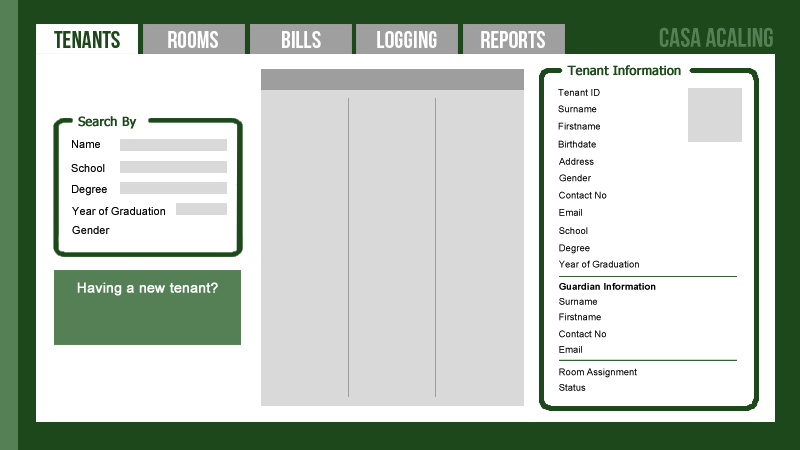
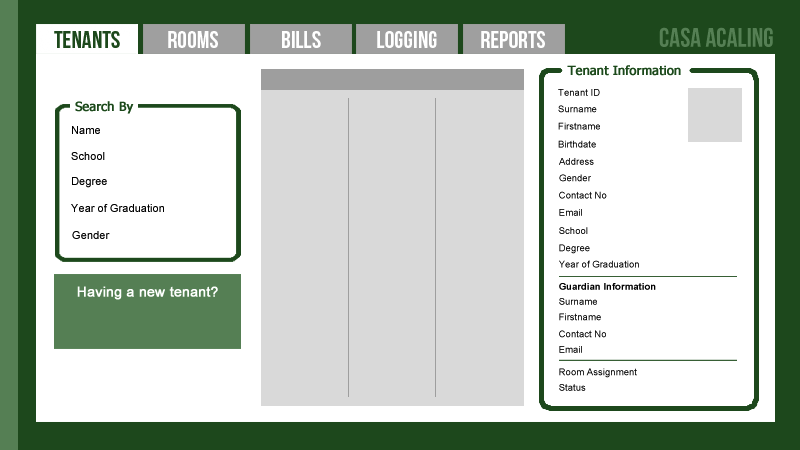
EditedMainMenu

Changed region(s): [[0.0625, 0.2178, 0.3125, 0.6844], [0.0625, 0.7467, 0.3125, 0.7778]]

diff --git a/Iteration 2/Iteration 2/src/GUI/MainMenu.java b/Iteration 2/Iteration 2/src/GUI/MainMenu.java
@@ -347,9 +347,9 @@ public class MainMenu extends javax.swing.JFrame {
             }
         });
         getContentPane().add(jButton2);
-        jButton2.setBounds(720, 360, 30, 30);
+        jButton2.setBounds(710, 360, 30, 30);
 
-        NameField.setFont(new java.awt.Font("Tahoma", 0, 8)); // NOI18N
+        NameField.setFont(new java.awt.Font("Tahoma", 0, 12)); // NOI18N
         NameField.addActionListener(new java.awt.event.ActionListener() {
             public void actionPerformed(java.awt.event.ActionEvent evt) {
                 NameFieldActionPerformed(evt);
@@ -361,7 +361,7 @@ public class MainMenu extends javax.swing.JFrame {
             }
         });
         getContentPane().add(NameField);
-        NameField.setBounds(110, 130, 120, 20);
+        NameField.setBounds(110, 100, 120, 30);
 
         SchoolField.setFont(new java.awt.Font("Tahoma", 0, 10)); // NOI18N
         SchoolField.addActionListener(new java.awt.event.ActionListener() {
@@ -375,7 +375,7 @@ public class MainMenu extends javax.swing.JFrame {
             }
         });
         getContentPane().add(SchoolField);
-        SchoolField.setBounds(110, 150, 120, 20);
+        SchoolField.setBounds(110, 130, 120, 30);
 
         DegreeField.setFont(new java.awt.Font("Tahoma", 0, 10)); // NOI18N
         DegreeField.addActionListener(new java.awt.event.ActionListener() {
@@ -389,7 +389,7 @@ public class MainMenu extends javax.swing.JFrame {
             }
         });
         getContentPane().add(DegreeField);
-        DegreeField.setBounds(110, 170, 120, 20);
+        DegreeField.setBounds(110, 160, 120, 30);
 
         buttonGroup1.add(MaleField);
         MaleField.setFont(new java.awt.Font("Lucida Grande", 0, 12)); // NOI18N
